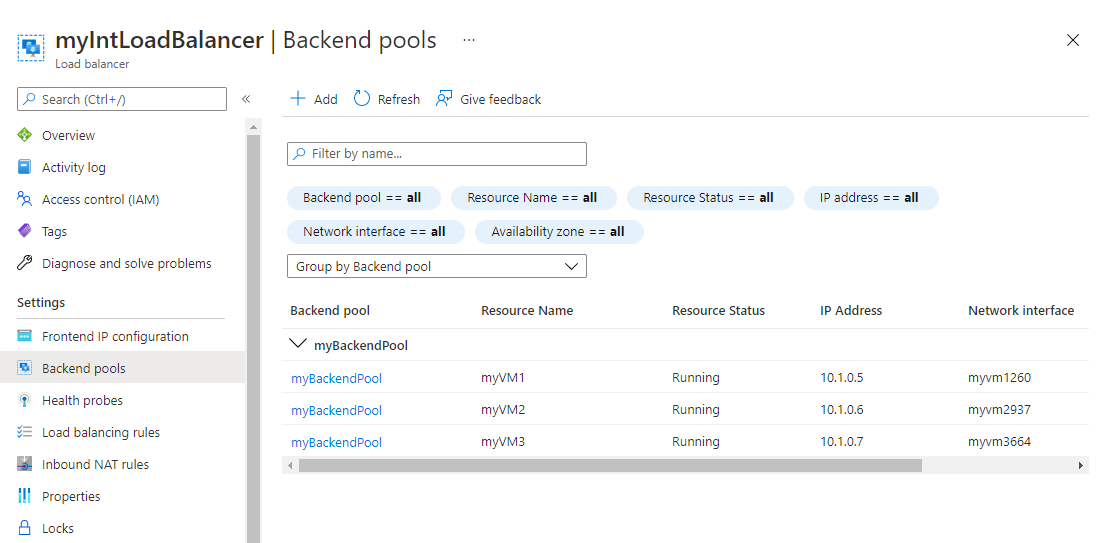
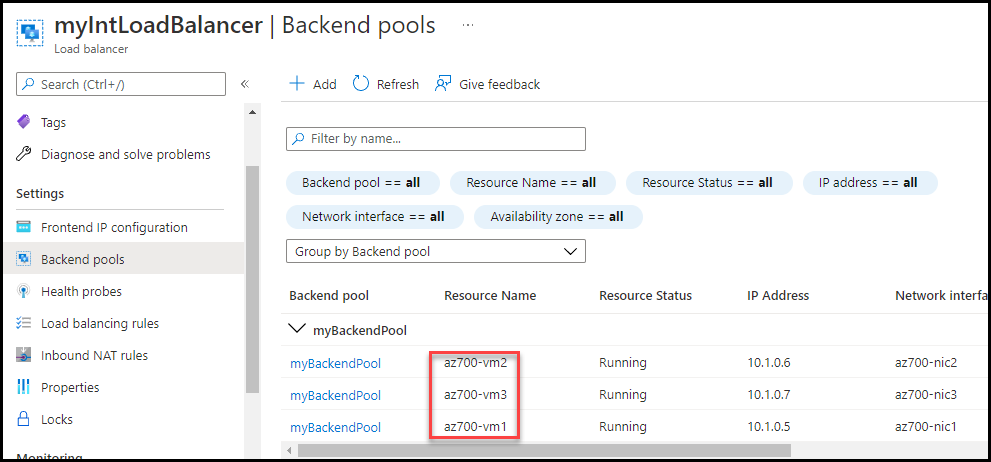
Update M08-Unit 3 Monitor a load balancer resource using Azure Monitor.md

diff --git a/Instructions/Exercises/M08-Unit 3 Monitor a load balancer resource using Azure Monitor.md b/Instructions/Exercises/M08-Unit 3 Monitor a load balancer resource using Azure Monitor.md
@@ -128,7 +128,6 @@ The backend address pool contains the IP addresses of the virtual NICs connected
    | --------------- | -------------------- |
    | Name            | **myBackendPool**    |
    | Virtual network | **IntLB-VNet**       |
-   | Associated to   | **Virtual machines** |
 
 4. Click **Add**.
 
@@ -216,13 +215,11 @@ In this section, you will create three VMs, that will be in the same availabilit
 
 2. Under **Settings**, select **Backend pools**., and then select **myBackendPool**.
 
-3. In the **Associated to** box, select **Virtual machines**.
+3. Under **Virtual machines**, click **Add**.
 
-4. Under **Virtual machines**, click **Add**.
+4. Select the checkboxes for all 3 VMs (**az700-vm1**, **az700-vm2**, and **az700-vm3**), then click **Add**.
 
-5. Select the checkboxes for all 3 VMs (**myVM1**, **myVM2**, and **myVM3**), then click **Add**.
-
-6. On the **myBackendPool** page, click **Save**.
+5. On the **myBackendPool** page, click **Save**.
 
    ![Show VMs added to backend pool in load balancer](../media/add-vms-backendpool.png)
 
@@ -230,7 +227,7 @@ In this section, you will create three VMs, that will be in the same availabilit
 
 ## Task 8: Install IIS on the VMs
 
-1. On the Azure portal home page, click **All resources**, then click on **myVM1** from the resources list.
+1. On the Azure portal home page, click **All resources**, then click on **az700-vm1** from the resources list.
 
 2. On the **Overview** page, select **Connect**, then **Bastion**.
 
@@ -238,7 +235,7 @@ In this section, you will create three VMs, that will be in the same availabilit
 
 4. In the **Username** box, type **TestUser** and in the **Password** box, type **TestPa$$w0rd!**, then click **Connect**.
 
-5. The **myVM1** window will open in another browser tab.
+5. The **az700-vm1** window will open in another browser tab.
 
 6. If a **Networks** pane appears, click **Yes**.
 
@@ -251,9 +248,9 @@ In this section, you will create three VMs, that will be in the same availabilit
 
 10. To add a new default web home page and add content to it, run the following command in PowerShell: Add-Content -Path "C:\inetpub\wwwroot\iisstart.htm" -Value $("Hello World from " + $env:computername)
 
-11. Close the Bastion session to **myVM1** by closing the browser tab.
+11. Close the Bastion session to **az700-vm1** by closing the browser tab.
 
-12. Repeat steps 1-11 above twice more to install IIS and the updated default home page on the **myVM2** and **myVM3** virtual machines.
+12. Repeat steps 1-11 above twice more to install IIS and the updated default home page on the **az700-vm2** and **az700-vm3** virtual machines.
 
 ## Task 9: Test the load balancer
 
@@ -272,7 +269,7 @@ In this section, you will create a test VM, and then test the load balancer.
    | Virtual machine name | **myTestVM**                                 |
    | Region               | **(US) West US**                             |
    | Availability options | **No infrastructure redundancy required**    |
-   | Image                | **Windows Server 2019 Datacenter - Gen 1**   |
+   | Image                | **Windows Server 2019 Datacenter - Gen 2**   |
    | Size                 | **Standard_DS1_v2 - 1 vcpu, 3.5 GiB memory** |
    | Username             | **TestUser**                                 |
    | Password             | **TestPa$$w0rd!**                            |
@@ -301,7 +298,7 @@ In this section, you will create a test VM, and then test the load balancer.
 
 1. On the Azure portal home page, click **All resources**, then click on **myIntLoadBalancer** from the resources list.
 
-2. On the **Overview** page, make a note of the **Private IP address**, or copy it to the clipboard.
+2. On the **Overview** page, make a note of the **Private IP address**, or copy it to the clipboard. Click on see more if you can't find it in the list
 
 3. Click **Home**, then on the Azure portal home page, click **All resources**, then click on the **myTestVM** virtual machine that you just created.
 
@@ -361,7 +358,9 @@ In this section, you will create a test VM, and then test the load balancer.
 
 3. In the top right corner of the page, click the **X** to close the **Metrics** pane for now. You will open it again shortly.
 
-4. This page view is known as Functional Dependency View, and in this view, you get a useful interactive diagram, which illustrates the topology of the selected network resource - in this case a load balancer. For Standard Load Balancers, your backend pool resources are color-coded with Health Probe status indicating the current availability of your backend pool to serve traffic.
+4. This page view is known as Functional Dependency View, and in this view, you get a useful interactive diagram, which illustrates the topology of the selected network resource - in this case a load balancer. For Standard Load Balancers, your backend pool resources are color-coded with Health Probe status indicating the current availability of your backend pool to serve traffic. 
+
+   **Note**: It takes few hours to load data in insights, do not wait and go through next steps and images to understand the functionality.
 
 5. Use the **Zoom In (+)** and **Zoom Out (-)** buttons in the bottom right corner of the page, to zoom in and out of the topology diagram (alternatively you can use your mouse wheel if you have one). You can also drag the topology diagram around the page to move it.
 
@@ -369,7 +368,7 @@ In this section, you will create a test VM, and then test the load balancer.
 
 7. Notice that you can use the links in these pop-up windows to view information about these load balancer components and open their respective Azure portal blades.
 
-8. Hover over the **myVM3** virtual machine component. Note that you can open the resource blade for the virtual machine, and you can open the **VM Insights** page, or you can run the **Connection troubleshoot** tool from Network Watcher - all from this part of the topology diagram.
+8. Hover over the **az700-vm3** virtual machine component. Note that you can open the resource blade for the virtual machine, and you can open the **VM Insights** page, or you can run the **Connection troubleshoot** tool from Network Watcher - all from this part of the topology diagram.
    ![Azure Monitor Network Insights functional dependency view](../media/network-insights-functional-dependency-view-2.png)
 
 9. To download a .SVG file copy of the topology diagram, click **Download topology**, and save the file in your **Downloads** folder. 
